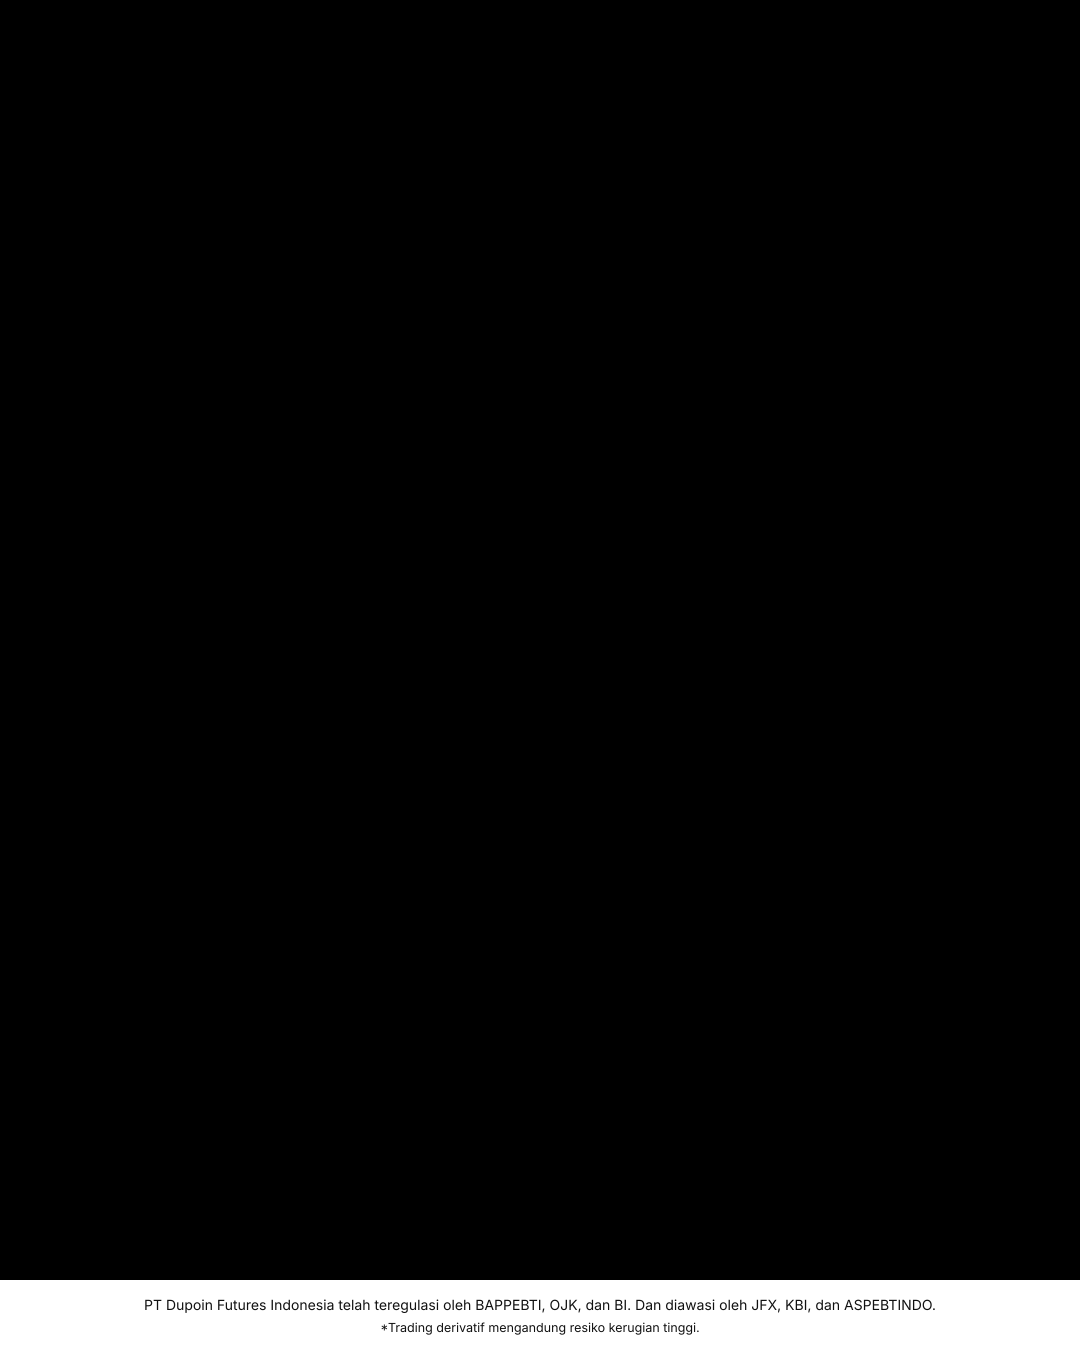
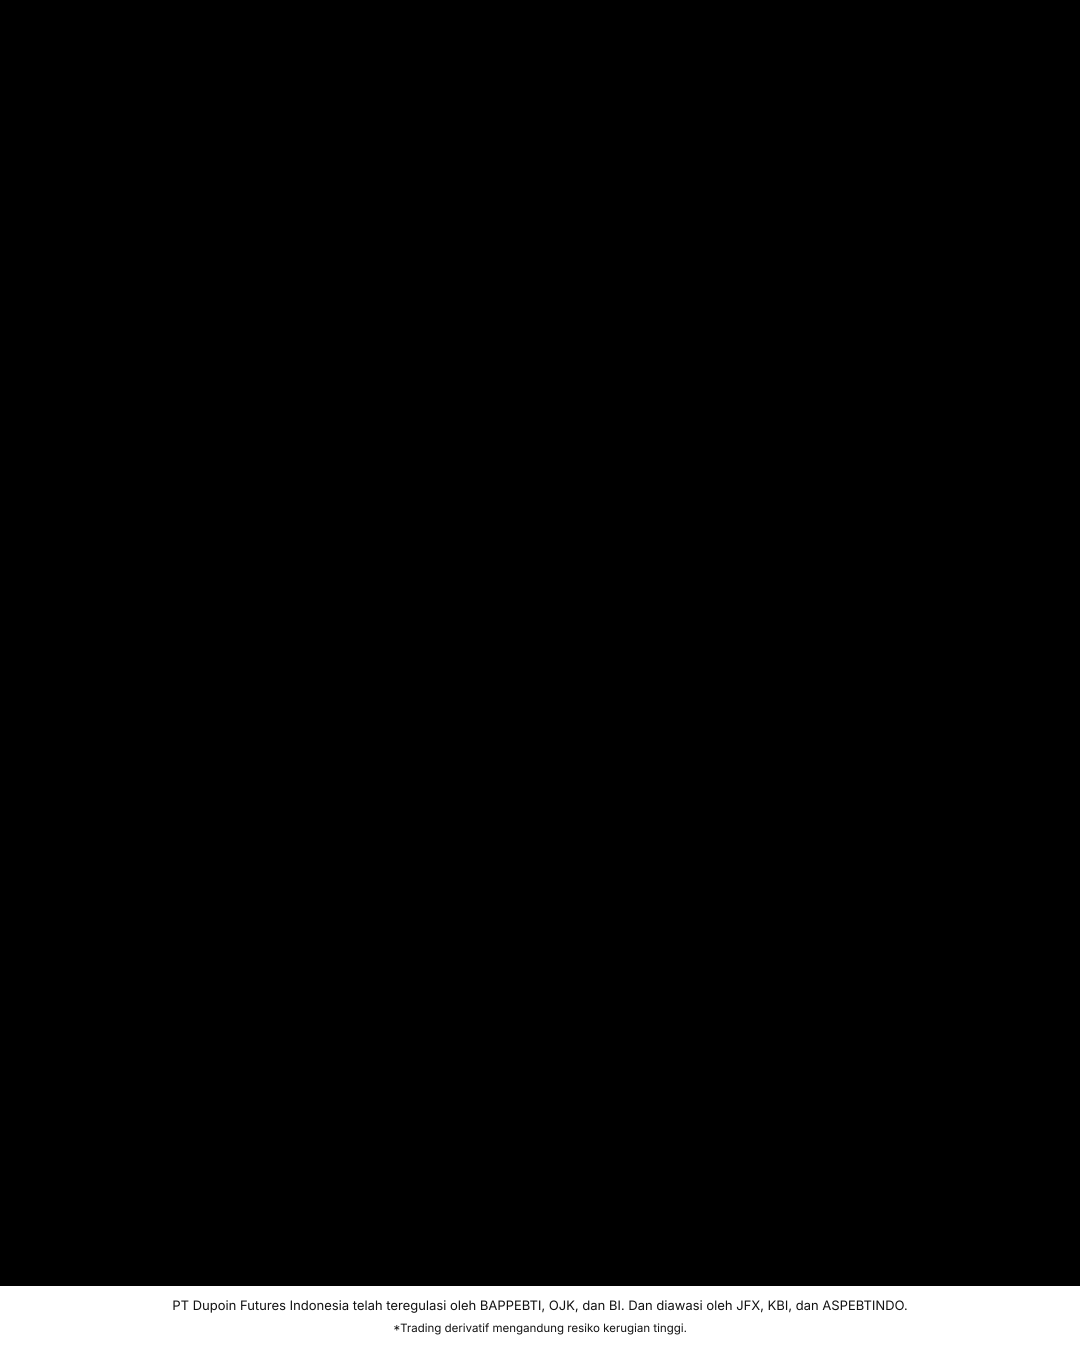
Shrink the Social Post lockup to the sizing-reference box.
Place the header mark at left 80, top 64, 435×72 on the 1080×1350 frame, with a 64px regulatory footer, so the stamp is smaller and more inset.

Changed region(s): [[0.0, 0.9333, 1.0, 0.9956]]

diff --git a/tests/dupoin-ig-chrome.test.ts b/tests/dupoin-ig-chrome.test.ts
@@ -10,6 +10,10 @@ import {
   DUPOIN_IG_FOOTER_LINE_1,
   DUPOIN_IG_FOOTER_LINE_2,
   DUPOIN_IG_HEADER_BAND_PX,
+  DUPOIN_IG_LOCKUP_HEIGHT,
+  DUPOIN_IG_LOCKUP_LEFT,
+  DUPOIN_IG_LOCKUP_TOP,
+  DUPOIN_IG_LOCKUP_WIDTH,
   DUPOIN_SOCIAL_FOOTER_PNG_PATH,
   DUPOIN_SOCIAL_HEADER_PNG_PATH,
   chromePlacement,
@@ -162,6 +166,37 @@ test('source plates are black-backed, and knockout clears the field without eras
   const leftMargin = footerMinX;
   const rightMargin = footerRaw.info.width - 1 - footerMaxX;
   assert.ok(Math.abs(leftMargin - rightMargin) <= 8, `footer type must be centered, margins ${leftMargin} vs ${rightMargin}`);
+});
+
+test('the header lockup stays inside the sizing-reference box', async () => {
+  const headerRaw = await raw(DUPOIN_SOCIAL_HEADER_PNG_PATH);
+  const keyed = knockOutBlackBackground(
+    { data: headerRaw.data, width: headerRaw.info.width, height: headerRaw.info.height },
+    false,
+  );
+  let minX = headerRaw.info.width;
+  let minY = headerRaw.info.height;
+  let maxX = 0;
+  let maxY = 0;
+  for (let y = 0; y < headerRaw.info.height; y++) {
+    for (let x = 0; x < headerRaw.info.width; x++) {
+      const i = (y * headerRaw.info.width + x) * 4;
+      if (keyed[i + 3] <= 20) continue;
+      if (Math.max(keyed[i], keyed[i + 1], keyed[i + 2]) <= 12) continue;
+      if (x < minX) minX = x;
+      if (y < minY) minY = y;
+      if (x > maxX) maxX = x;
+      if (y > maxY) maxY = y;
+    }
+  }
+  const width = maxX - minX + 1;
+  const height = maxY - minY + 1;
+  assert.equal(minX, DUPOIN_IG_LOCKUP_LEFT);
+  assert.equal(minY, DUPOIN_IG_LOCKUP_TOP);
+  assert.equal(width, DUPOIN_IG_LOCKUP_WIDTH);
+  assert.equal(height, DUPOIN_IG_LOCKUP_HEIGHT);
+  assert.ok(width < 520, 'lockup must stay smaller than the previous oversized stamp');
+  assert.ok(minX >= 72 && minY >= 56, 'lockup needs the reference top and left inset');
 });
 
 test('prompt bands match the artwork left after black knockout', async () => {

diff --git a/src/lib/dupoin-ig-chrome.ts b/src/lib/dupoin-ig-chrome.ts
@@ -24,12 +24,22 @@ export const DUPOIN_IG_CHROME_WIDTH = 1080;
 export const DUPOIN_IG_CHROME_HEIGHT = 1350;
 
 /**
- * Content height of each plate after the black background is removed,
- * measured from the committed assets (inclusive of the plate's own padding).
- * Prompt clearance uses the same numbers so the model reserves the real bands.
+ * Lockup box on Bayu's 1080×1350 sizing reference.
+ * The composited mark must stay inside this box: more inset than a
+ * full-width stamp, and not taller than the reference.
  */
-export const DUPOIN_IG_HEADER_BAND_PX = 156;
-export const DUPOIN_IG_FOOTER_BAND_PX = 70;
+export const DUPOIN_IG_LOCKUP_LEFT = 80;
+export const DUPOIN_IG_LOCKUP_TOP = 64;
+export const DUPOIN_IG_LOCKUP_WIDTH = 435;
+export const DUPOIN_IG_LOCKUP_HEIGHT = 72;
+
+/**
+ * Content height of each plate after the black background is removed.
+ * Header band is the sizing-reference top inset plus the lockup height.
+ * Prompt clearance uses the same numbers.
+ */
+export const DUPOIN_IG_HEADER_BAND_PX = DUPOIN_IG_LOCKUP_TOP + DUPOIN_IG_LOCKUP_HEIGHT;
+export const DUPOIN_IG_FOOTER_BAND_PX = 64;
 
 /** Exact disclaimer on the official footer plate. Spelling "resiko" is intentional. */
 export const DUPOIN_IG_FOOTER_LINE_1 =
